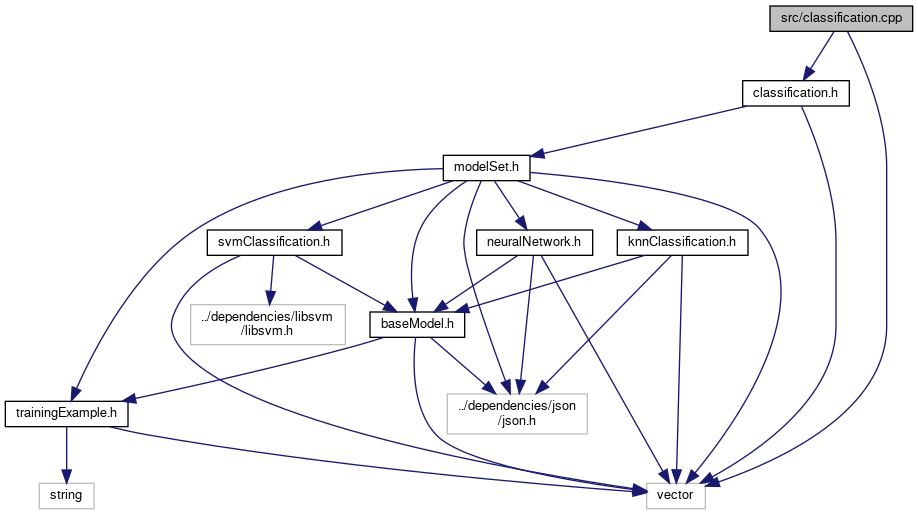
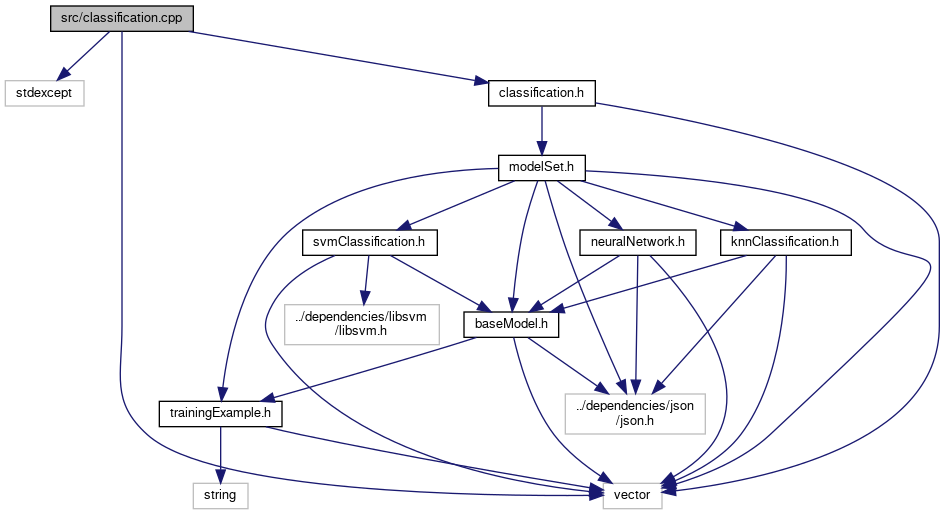
deploy: 6834501a626e058c14dac0ea86fdc0ae835ef00b

diff --git a/doxygen/neural_network_8h_source.html b/doxygen/neural_network_8h_source.html
@@ -212,27 +212,27 @@ $(document).ready(function(){initNavTree('neural_network_8h_source.html',''); in
 <div class="ttc" id="abase_model_8h_html"><div class="ttname"><a href="base_model_8h.html">baseModel.h</a></div></div>
 <div class="ttc" id="aclassbase_model_html"><div class="ttname"><a href="classbase_model.html">baseModel</a></div><div class="ttdef"><b>Definition:</b> baseModel.h:42</div></div>
 <div class="ttc" id="aclassneural_network_html"><div class="ttname"><a href="classneural_network.html">neuralNetwork</a></div><div class="ttdef"><b>Definition:</b> neuralNetwork.h:25</div></div>
-<div class="ttc" id="aclassneural_network_html_a117ceae3ff964ea9612b8ab357d8f5de"><div class="ttname"><a href="classneural_network.html#a117ceae3ff964ea9612b8ab357d8f5de">neuralNetwork::getInBases</a></div><div class="ttdeci">std::vector&lt; T &gt; getInBases() const</div><div class="ttdef"><b>Definition:</b> neuralNetwork.cpp:319</div></div>
-<div class="ttc" id="aclassneural_network_html_a143e7094eaca5b7602169b38db3652f3"><div class="ttname"><a href="classneural_network.html#a143e7094eaca5b7602169b38db3652f3">neuralNetwork::getOutRange</a></div><div class="ttdeci">T getOutRange() const</div><div class="ttdef"><b>Definition:</b> neuralNetwork.cpp:325</div></div>
-<div class="ttc" id="aclassneural_network_html_a2e53c627d05ec08494b39b700da842cc"><div class="ttname"><a href="classneural_network.html#a2e53c627d05ec08494b39b700da842cc">neuralNetwork::getWeights</a></div><div class="ttdeci">std::vector&lt; T &gt; getWeights() const</div><div class="ttdef"><b>Definition:</b> neuralNetwork.cpp:288</div></div>
-<div class="ttc" id="aclassneural_network_html_a340e673fb29a9faa2d66a9ad26434ca8"><div class="ttname"><a href="classneural_network.html#a340e673fb29a9faa2d66a9ad26434ca8">neuralNetwork::getOutBase</a></div><div class="ttdeci">T getOutBase() const</div><div class="ttdef"><b>Definition:</b> neuralNetwork.cpp:331</div></div>
-<div class="ttc" id="aclassneural_network_html_a5522af308ee4bae154f58bbd2977be7b"><div class="ttname"><a href="classneural_network.html#a5522af308ee4bae154f58bbd2977be7b">neuralNetwork::train</a></div><div class="ttdeci">void train(const std::vector&lt; trainingExampleTemplate&lt; T &gt; &gt; &amp;trainingSet) override</div><div class="ttdoc">These pertain to the training, and aren't need to run a trained model //.</div><div class="ttdef"><b>Definition:</b> neuralNetwork.cpp:454</div></div>
+<div class="ttc" id="aclassneural_network_html_a117ceae3ff964ea9612b8ab357d8f5de"><div class="ttname"><a href="classneural_network.html#a117ceae3ff964ea9612b8ab357d8f5de">neuralNetwork::getInBases</a></div><div class="ttdeci">std::vector&lt; T &gt; getInBases() const</div><div class="ttdef"><b>Definition:</b> neuralNetwork.cpp:320</div></div>
+<div class="ttc" id="aclassneural_network_html_a143e7094eaca5b7602169b38db3652f3"><div class="ttname"><a href="classneural_network.html#a143e7094eaca5b7602169b38db3652f3">neuralNetwork::getOutRange</a></div><div class="ttdeci">T getOutRange() const</div><div class="ttdef"><b>Definition:</b> neuralNetwork.cpp:326</div></div>
+<div class="ttc" id="aclassneural_network_html_a2e53c627d05ec08494b39b700da842cc"><div class="ttname"><a href="classneural_network.html#a2e53c627d05ec08494b39b700da842cc">neuralNetwork::getWeights</a></div><div class="ttdeci">std::vector&lt; T &gt; getWeights() const</div><div class="ttdef"><b>Definition:</b> neuralNetwork.cpp:289</div></div>
+<div class="ttc" id="aclassneural_network_html_a340e673fb29a9faa2d66a9ad26434ca8"><div class="ttname"><a href="classneural_network.html#a340e673fb29a9faa2d66a9ad26434ca8">neuralNetwork::getOutBase</a></div><div class="ttdeci">T getOutBase() const</div><div class="ttdef"><b>Definition:</b> neuralNetwork.cpp:332</div></div>
+<div class="ttc" id="aclassneural_network_html_a5522af308ee4bae154f58bbd2977be7b"><div class="ttname"><a href="classneural_network.html#a5522af308ee4bae154f58bbd2977be7b">neuralNetwork::train</a></div><div class="ttdeci">void train(const std::vector&lt; trainingExampleTemplate&lt; T &gt; &gt; &amp;trainingSet) override</div><div class="ttdoc">These pertain to the training, and aren't need to run a trained model //.</div><div class="ttdef"><b>Definition:</b> neuralNetwork.cpp:455</div></div>
 <div class="ttc" id="aclassneural_network_html_a585963ffd63e5865c97d38bee031dda0"><div class="ttname"><a href="classneural_network.html#a585963ffd63e5865c97d38bee031dda0">neuralNetwork::neuralNetwork</a></div><div class="ttdeci">neuralNetwork(const size_t &amp;num_inputs, const std::vector&lt; size_t &gt; &amp;which_inputs, const size_t &amp;num_hidden_layers, const size_t &amp;num_hidden_nodes, const std::vector&lt; T &gt; &amp;weights, const std::vector&lt; T &gt; &amp;wHiddenOutput, const std::vector&lt; T &gt; &amp;inRanges, const std::vector&lt; T &gt; &amp;inBases, const T &amp;outRange, const T &amp;outBase)</div><div class="ttdef"><b>Definition:</b> neuralNetwork.cpp:41</div></div>
-<div class="ttc" id="aclassneural_network_html_a660b5d16d302083f754257d63af47d74"><div class="ttname"><a href="classneural_network.html#a660b5d16d302083f754257d63af47d74">neuralNetwork::setNumHiddenNodes</a></div><div class="ttdeci">void setNumHiddenNodes(size_t num_hidden_nodes)</div><div class="ttdef"><b>Definition:</b> neuralNetwork.cpp:268</div></div>
+<div class="ttc" id="aclassneural_network_html_a660b5d16d302083f754257d63af47d74"><div class="ttname"><a href="classneural_network.html#a660b5d16d302083f754257d63af47d74">neuralNetwork::setNumHiddenNodes</a></div><div class="ttdeci">void setNumHiddenNodes(size_t num_hidden_nodes)</div><div class="ttdef"><b>Definition:</b> neuralNetwork.cpp:269</div></div>
 <div class="ttc" id="aclassneural_network_html_a70bdc148e83484091bd3602c1f04949c"><div class="ttname"><a href="classneural_network.html#a70bdc148e83484091bd3602c1f04949c">neuralNetwork::reset</a></div><div class="ttdeci">void reset() override</div><div class="ttdef"><b>Definition:</b> neuralNetwork.cpp:166</div></div>
-<div class="ttc" id="aclassneural_network_html_a7df947c013b114181bda7ad5af738780"><div class="ttname"><a href="classneural_network.html#a7df947c013b114181bda7ad5af738780">neuralNetwork::getNumInputs</a></div><div class="ttdeci">size_t getNumInputs() const override</div><div class="ttdef"><b>Definition:</b> neuralNetwork.cpp:236</div></div>
-<div class="ttc" id="aclassneural_network_html_a873489b1600cbcb0b7e514125e03c87a"><div class="ttname"><a href="classneural_network.html#a873489b1600cbcb0b7e514125e03c87a">neuralNetwork::setNumHiddenLayers</a></div><div class="ttdeci">void setNumHiddenLayers(size_t num_hidden_layers)</div><div class="ttdef"><b>Definition:</b> neuralNetwork.cpp:254</div></div>
-<div class="ttc" id="aclassneural_network_html_a88620edc9ba16fbcd7686c2da2325575"><div class="ttname"><a href="classneural_network.html#a88620edc9ba16fbcd7686c2da2325575">neuralNetwork::getJSONDescription</a></div><div class="ttdeci">void getJSONDescription(Json::Value &amp;currentModel) override</div><div class="ttdef"><b>Definition:</b> neuralNetwork.cpp:338</div></div>
-<div class="ttc" id="aclassneural_network_html_a91906224a9d6d8682a9321b1d62f7f16"><div class="ttname"><a href="classneural_network.html#a91906224a9d6d8682a9321b1d62f7f16">neuralNetwork::getWhichInputs</a></div><div class="ttdeci">std::vector&lt; size_t &gt; getWhichInputs() const override</div><div class="ttdef"><b>Definition:</b> neuralNetwork.cpp:242</div></div>
-<div class="ttc" id="aclassneural_network_html_a9a8e7ea477ea2d05c70952fa523af9aa"><div class="ttname"><a href="classneural_network.html#a9a8e7ea477ea2d05c70952fa523af9aa">neuralNetwork::getNumHiddenNodes</a></div><div class="ttdeci">size_t getNumHiddenNodes() const</div><div class="ttdef"><b>Definition:</b> neuralNetwork.cpp:262</div></div>
-<div class="ttc" id="aclassneural_network_html_a9acec74e15163e25ff5d3aa1b9951143"><div class="ttname"><a href="classneural_network.html#a9acec74e15163e25ff5d3aa1b9951143">neuralNetwork::run</a></div><div class="ttdeci">T run(const std::vector&lt; T &gt; &amp;inputVector) const override</div><div class="ttdef"><b>Definition:</b> neuralNetwork.cpp:393</div></div>
+<div class="ttc" id="aclassneural_network_html_a7df947c013b114181bda7ad5af738780"><div class="ttname"><a href="classneural_network.html#a7df947c013b114181bda7ad5af738780">neuralNetwork::getNumInputs</a></div><div class="ttdeci">size_t getNumInputs() const override</div><div class="ttdef"><b>Definition:</b> neuralNetwork.cpp:237</div></div>
+<div class="ttc" id="aclassneural_network_html_a873489b1600cbcb0b7e514125e03c87a"><div class="ttname"><a href="classneural_network.html#a873489b1600cbcb0b7e514125e03c87a">neuralNetwork::setNumHiddenLayers</a></div><div class="ttdeci">void setNumHiddenLayers(size_t num_hidden_layers)</div><div class="ttdef"><b>Definition:</b> neuralNetwork.cpp:255</div></div>
+<div class="ttc" id="aclassneural_network_html_a88620edc9ba16fbcd7686c2da2325575"><div class="ttname"><a href="classneural_network.html#a88620edc9ba16fbcd7686c2da2325575">neuralNetwork::getJSONDescription</a></div><div class="ttdeci">void getJSONDescription(Json::Value &amp;currentModel) override</div><div class="ttdef"><b>Definition:</b> neuralNetwork.cpp:339</div></div>
+<div class="ttc" id="aclassneural_network_html_a91906224a9d6d8682a9321b1d62f7f16"><div class="ttname"><a href="classneural_network.html#a91906224a9d6d8682a9321b1d62f7f16">neuralNetwork::getWhichInputs</a></div><div class="ttdeci">std::vector&lt; size_t &gt; getWhichInputs() const override</div><div class="ttdef"><b>Definition:</b> neuralNetwork.cpp:243</div></div>
+<div class="ttc" id="aclassneural_network_html_a9a8e7ea477ea2d05c70952fa523af9aa"><div class="ttname"><a href="classneural_network.html#a9a8e7ea477ea2d05c70952fa523af9aa">neuralNetwork::getNumHiddenNodes</a></div><div class="ttdeci">size_t getNumHiddenNodes() const</div><div class="ttdef"><b>Definition:</b> neuralNetwork.cpp:263</div></div>
+<div class="ttc" id="aclassneural_network_html_a9acec74e15163e25ff5d3aa1b9951143"><div class="ttname"><a href="classneural_network.html#a9acec74e15163e25ff5d3aa1b9951143">neuralNetwork::run</a></div><div class="ttdeci">T run(const std::vector&lt; T &gt; &amp;inputVector) const override</div><div class="ttdef"><b>Definition:</b> neuralNetwork.cpp:394</div></div>
 <div class="ttc" id="aclassneural_network_html_ab959d1c89e56993ae85a6365950addcc"><div class="ttname"><a href="classneural_network.html#ab959d1c89e56993ae85a6365950addcc">neuralNetwork::~neuralNetwork</a></div><div class="ttdeci">~neuralNetwork()</div><div class="ttdef"><b>Definition:</b> neuralNetwork.cpp:161</div></div>
-<div class="ttc" id="aclassneural_network_html_aba035309d02ee4f85d394176d4082d68"><div class="ttname"><a href="classneural_network.html#aba035309d02ee4f85d394176d4082d68">neuralNetwork::setEpochs</a></div><div class="ttdeci">void setEpochs(const size_t &amp;epochs)</div><div class="ttdef"><b>Definition:</b> neuralNetwork.cpp:282</div></div>
-<div class="ttc" id="aclassneural_network_html_ac23b669ec4fc0a6f5f30a9ef3f9fe804"><div class="ttname"><a href="classneural_network.html#ac23b669ec4fc0a6f5f30a9ef3f9fe804">neuralNetwork::getInRanges</a></div><div class="ttdeci">std::vector&lt; T &gt; getInRanges() const</div><div class="ttdef"><b>Definition:</b> neuralNetwork.cpp:313</div></div>
-<div class="ttc" id="aclassneural_network_html_ac747f899d7418d371b6ee4672f5ec221"><div class="ttname"><a href="classneural_network.html#ac747f899d7418d371b6ee4672f5ec221">neuralNetwork::getNumHiddenLayers</a></div><div class="ttdeci">size_t getNumHiddenLayers() const</div><div class="ttdef"><b>Definition:</b> neuralNetwork.cpp:248</div></div>
-<div class="ttc" id="aclassneural_network_html_ad7f7b2da4f538858be2c8a0605ea50b9"><div class="ttname"><a href="classneural_network.html#ad7f7b2da4f538858be2c8a0605ea50b9">neuralNetwork::getEpochs</a></div><div class="ttdeci">size_t getEpochs() const</div><div class="ttdef"><b>Definition:</b> neuralNetwork.cpp:276</div></div>
-<div class="ttc" id="aclassneural_network_html_adf1a972a173718f922d84681848bdf1b"><div class="ttname"><a href="classneural_network.html#adf1a972a173718f922d84681848bdf1b">neuralNetwork::getWHiddenOutput</a></div><div class="ttdeci">std::vector&lt; T &gt; getWHiddenOutput() const</div><div class="ttdef"><b>Definition:</b> neuralNetwork.cpp:307</div></div>
-<div class="ttc" id="aclassneural_network_html_aef083e8782e22eeb1ade53cce192a9d5"><div class="ttname"><a href="classneural_network.html#aef083e8782e22eeb1ade53cce192a9d5">neuralNetwork::getCurrentEpoch</a></div><div class="ttdeci">size_t getCurrentEpoch() const</div><div class="ttdef"><b>Definition:</b> neuralNetwork.cpp:579</div></div>
+<div class="ttc" id="aclassneural_network_html_aba035309d02ee4f85d394176d4082d68"><div class="ttname"><a href="classneural_network.html#aba035309d02ee4f85d394176d4082d68">neuralNetwork::setEpochs</a></div><div class="ttdeci">void setEpochs(const size_t &amp;epochs)</div><div class="ttdef"><b>Definition:</b> neuralNetwork.cpp:283</div></div>
+<div class="ttc" id="aclassneural_network_html_ac23b669ec4fc0a6f5f30a9ef3f9fe804"><div class="ttname"><a href="classneural_network.html#ac23b669ec4fc0a6f5f30a9ef3f9fe804">neuralNetwork::getInRanges</a></div><div class="ttdeci">std::vector&lt; T &gt; getInRanges() const</div><div class="ttdef"><b>Definition:</b> neuralNetwork.cpp:314</div></div>
+<div class="ttc" id="aclassneural_network_html_ac747f899d7418d371b6ee4672f5ec221"><div class="ttname"><a href="classneural_network.html#ac747f899d7418d371b6ee4672f5ec221">neuralNetwork::getNumHiddenLayers</a></div><div class="ttdeci">size_t getNumHiddenLayers() const</div><div class="ttdef"><b>Definition:</b> neuralNetwork.cpp:249</div></div>
+<div class="ttc" id="aclassneural_network_html_ad7f7b2da4f538858be2c8a0605ea50b9"><div class="ttname"><a href="classneural_network.html#ad7f7b2da4f538858be2c8a0605ea50b9">neuralNetwork::getEpochs</a></div><div class="ttdeci">size_t getEpochs() const</div><div class="ttdef"><b>Definition:</b> neuralNetwork.cpp:277</div></div>
+<div class="ttc" id="aclassneural_network_html_adf1a972a173718f922d84681848bdf1b"><div class="ttname"><a href="classneural_network.html#adf1a972a173718f922d84681848bdf1b">neuralNetwork::getWHiddenOutput</a></div><div class="ttdeci">std::vector&lt; T &gt; getWHiddenOutput() const</div><div class="ttdef"><b>Definition:</b> neuralNetwork.cpp:308</div></div>
+<div class="ttc" id="aclassneural_network_html_aef083e8782e22eeb1ade53cce192a9d5"><div class="ttname"><a href="classneural_network.html#aef083e8782e22eeb1ade53cce192a9d5">neuralNetwork::getCurrentEpoch</a></div><div class="ttdeci">size_t getCurrentEpoch() const</div><div class="ttdef"><b>Definition:</b> neuralNetwork.cpp:580</div></div>
 <div class="ttc" id="astructtraining_example_template_html"><div class="ttname"><a href="structtraining_example_template.html">trainingExampleTemplate</a></div><div class="ttdef"><b>Definition:</b> trainingExample.h:19</div></div>
 </div><!-- fragment --></div><!-- contents -->
 </div><!-- doc-content -->

diff --git a/doxygen/classification_8h_source.html b/doxygen/classification_8h_source.html
@@ -148,13 +148,13 @@ $(document).ready(function(){initNavTree('classification_8h_source.html',''); in
 <div class="line"><a name="l00081"></a><span class="lineno">   81</span>&#160;<span class="preprocessor">#endif</span></div>
 <div class="ttc" id="aclassclassification_template_html"><div class="ttname"><a href="classclassification_template.html">classificationTemplate</a></div><div class="ttdef"><b>Definition:</b> classification.h:23</div></div>
 <div class="ttc" id="aclassclassification_template_html_a08b659332178a1922ca501ea94a924ed"><div class="ttname"><a href="classclassification_template.html#a08b659332178a1922ca501ea94a924ed">classificationTemplate::~classificationTemplate</a></div><div class="ttdeci">~classificationTemplate()</div><div class="ttdef"><b>Definition:</b> classification.h:46</div></div>
-<div class="ttc" id="aclassclassification_template_html_a15295fc102a88710e1cdac654ad0c623"><div class="ttname"><a href="classclassification_template.html#a15295fc102a88710e1cdac654ad0c623">classificationTemplate::classificationTemplate</a></div><div class="ttdeci">classificationTemplate()</div><div class="ttdef"><b>Definition:</b> classification.cpp:17</div></div>
-<div class="ttc" id="aclassclassification_template_html_a3ed111f5d4cbba97ff388137ad37e30c"><div class="ttname"><a href="classclassification_template.html#a3ed111f5d4cbba97ff388137ad37e30c">classificationTemplate::getK</a></div><div class="ttdeci">std::vector&lt; int &gt; getK()</div><div class="ttdef"><b>Definition:</b> classification.cpp:122</div></div>
+<div class="ttc" id="aclassclassification_template_html_a15295fc102a88710e1cdac654ad0c623"><div class="ttname"><a href="classclassification_template.html#a15295fc102a88710e1cdac654ad0c623">classificationTemplate::classificationTemplate</a></div><div class="ttdeci">classificationTemplate()</div><div class="ttdef"><b>Definition:</b> classification.cpp:18</div></div>
+<div class="ttc" id="aclassclassification_template_html_a3ed111f5d4cbba97ff388137ad37e30c"><div class="ttname"><a href="classclassification_template.html#a3ed111f5d4cbba97ff388137ad37e30c">classificationTemplate::getK</a></div><div class="ttdeci">std::vector&lt; int &gt; getK()</div><div class="ttdef"><b>Definition:</b> classification.cpp:123</div></div>
 <div class="ttc" id="aclassclassification_template_html_a8a1f10bbfb59643c7033ee8a3656f85b"><div class="ttname"><a href="classclassification_template.html#a8a1f10bbfb59643c7033ee8a3656f85b">classificationTemplate::classificationTypes</a></div><div class="ttdeci">classificationTypes</div><div class="ttdef"><b>Definition:</b> classification.h:25</div></div>
 <div class="ttc" id="aclassclassification_template_html_a8a1f10bbfb59643c7033ee8a3656f85bac41f6b23f4b3fb053c7d27067aa18582"><div class="ttname"><a href="classclassification_template.html#a8a1f10bbfb59643c7033ee8a3656f85bac41f6b23f4b3fb053c7d27067aa18582">classificationTemplate::svm</a></div><div class="ttdeci">@ svm</div><div class="ttdef"><b>Definition:</b> classification.h:25</div></div>
 <div class="ttc" id="aclassclassification_template_html_a8a1f10bbfb59643c7033ee8a3656f85bae290b5e76b860b6f6a80c8bc69a1ed09"><div class="ttname"><a href="classclassification_template.html#a8a1f10bbfb59643c7033ee8a3656f85bae290b5e76b860b6f6a80c8bc69a1ed09">classificationTemplate::knn</a></div><div class="ttdeci">@ knn</div><div class="ttdef"><b>Definition:</b> classification.h:25</div></div>
-<div class="ttc" id="aclassclassification_template_html_a937a80f445d4cf77a643f59e5fec5383"><div class="ttname"><a href="classclassification_template.html#a937a80f445d4cf77a643f59e5fec5383">classificationTemplate::setK</a></div><div class="ttdeci">void setK(const int whichModel, const int newK)</div><div class="ttdef"><b>Definition:</b> classification.cpp:135</div></div>
-<div class="ttc" id="aclassclassification_template_html_af482a516ff68ad1eccab5dcedf9eec28"><div class="ttname"><a href="classclassification_template.html#af482a516ff68ad1eccab5dcedf9eec28">classificationTemplate::train</a></div><div class="ttdeci">bool train(const std::vector&lt; trainingExampleTemplate&lt; T &gt; &gt; &amp;trainingSet) override</div><div class="ttdef"><b>Definition:</b> classification.cpp:64</div></div>
+<div class="ttc" id="aclassclassification_template_html_a937a80f445d4cf77a643f59e5fec5383"><div class="ttname"><a href="classclassification_template.html#a937a80f445d4cf77a643f59e5fec5383">classificationTemplate::setK</a></div><div class="ttdeci">void setK(const int whichModel, const int newK)</div><div class="ttdef"><b>Definition:</b> classification.cpp:136</div></div>
+<div class="ttc" id="aclassclassification_template_html_af482a516ff68ad1eccab5dcedf9eec28"><div class="ttname"><a href="classclassification_template.html#af482a516ff68ad1eccab5dcedf9eec28">classificationTemplate::train</a></div><div class="ttdeci">bool train(const std::vector&lt; trainingExampleTemplate&lt; T &gt; &gt; &amp;trainingSet) override</div><div class="ttdef"><b>Definition:</b> classification.cpp:65</div></div>
 <div class="ttc" id="aclassmodel_set_html"><div class="ttname"><a href="classmodel_set.html">modelSet</a></div><div class="ttdef"><b>Definition:</b> modelSet.h:24</div></div>
 <div class="ttc" id="aclassmodel_set_html_aa7a70546de7da2e8ba868ead39d592ca"><div class="ttname"><a href="classmodel_set.html#aa7a70546de7da2e8ba868ead39d592ca">modelSet::numOutputs</a></div><div class="ttdeci">int numOutputs</div><div class="ttdef"><b>Definition:</b> modelSet.h:46</div></div>
 <div class="ttc" id="aclassmodel_set_html_ad4cd50c1dd5fc1d4ef55a24dbddfda1c"><div class="ttname"><a href="classmodel_set.html#ad4cd50c1dd5fc1d4ef55a24dbddfda1c">modelSet::numInputs</a></div><div class="ttdeci">int numInputs</div><div class="ttdef"><b>Definition:</b> modelSet.h:44</div></div>

diff --git a/doxygen/classification_8cpp.html b/doxygen/classification_8cpp.html
@@ -98,25 +98,27 @@ $(document).ready(function(){initNavTree('classification_8cpp.html',''); initRes
 <div class="title">classification.cpp File Reference</div>  </div>
 </div><!--header-->
 <div class="contents">
-<div class="textblock"><code>#include &lt;vector&gt;</code><br />
+<div class="textblock"><code>#include &lt;stdexcept&gt;</code><br />
+<code>#include &lt;vector&gt;</code><br />
 <code>#include &quot;<a class="el" href="classification_8h_source.html">classification.h</a>&quot;</code><br />
 </div><div class="textblock"><div class="dynheader">
 Include dependency graph for classification.cpp:</div>
 <div class="dyncontent">
 <div class="center"><img src="classification_8cpp__incl.png" border="0" usemap="#asrc_2classification_8cpp" alt=""/></div>
 <map name="asrc_2classification_8cpp" id="asrc_2classification_8cpp">
-<area shape="rect" title=" " alt="" coords="770,5,913,32"/>
-<area shape="rect" title=" " alt="" coords="647,483,705,509"/>
-<area shape="rect" href="classification_8h.html" title=" " alt="" coords="743,80,849,107"/>
-<area shape="rect" href="model_set_8h.html" title=" " alt="" coords="443,155,530,181"/>
-<area shape="rect" href="training_example_8h.html" title=" " alt="" coords="5,401,128,427"/>
-<area shape="rect" href="base_model_8h.html" title=" " alt="" coords="370,311,465,338"/>
-<area shape="rect" title=" " alt="" coords="447,393,587,435"/>
-<area shape="rect" href="neural_network_8h.html" title=" " alt="" coords="477,229,593,256"/>
-<area shape="rect" href="knn_classification_8h.html" title=" " alt="" coords="617,229,748,256"/>
-<area shape="rect" href="svm_classification_8h.html" title=" " alt="" coords="207,229,342,256"/>
-<area shape="rect" title=" " alt="" coords="39,483,94,509"/>
-<area shape="rect" title=" " alt="" coords="191,304,345,345"/>
+<area shape="rect" title=" " alt="" coords="51,5,193,32"/>
+<area shape="rect" title=" " alt="" coords="5,80,84,107"/>
+<area shape="rect" title=" " alt="" coords="603,483,662,509"/>
+<area shape="rect" href="classification_8h.html" title=" " alt="" coords="489,80,595,107"/>
+<area shape="rect" href="model_set_8h.html" title=" " alt="" coords="499,155,585,181"/>
+<area shape="rect" href="training_example_8h.html" title=" " alt="" coords="159,401,282,427"/>
+<area shape="rect" href="base_model_8h.html" title=" " alt="" coords="464,311,559,338"/>
+<area shape="rect" title=" " alt="" coords="565,393,705,435"/>
+<area shape="rect" href="neural_network_8h.html" title=" " alt="" coords="580,229,696,256"/>
+<area shape="rect" href="knn_classification_8h.html" title=" " alt="" coords="721,229,851,256"/>
+<area shape="rect" href="svm_classification_8h.html" title=" " alt="" coords="303,229,437,256"/>
+<area shape="rect" title=" " alt="" coords="193,483,248,509"/>
+<area shape="rect" title=" " alt="" coords="285,304,439,345"/>
 </map>
 </div>
 </div></div><!-- contents -->
